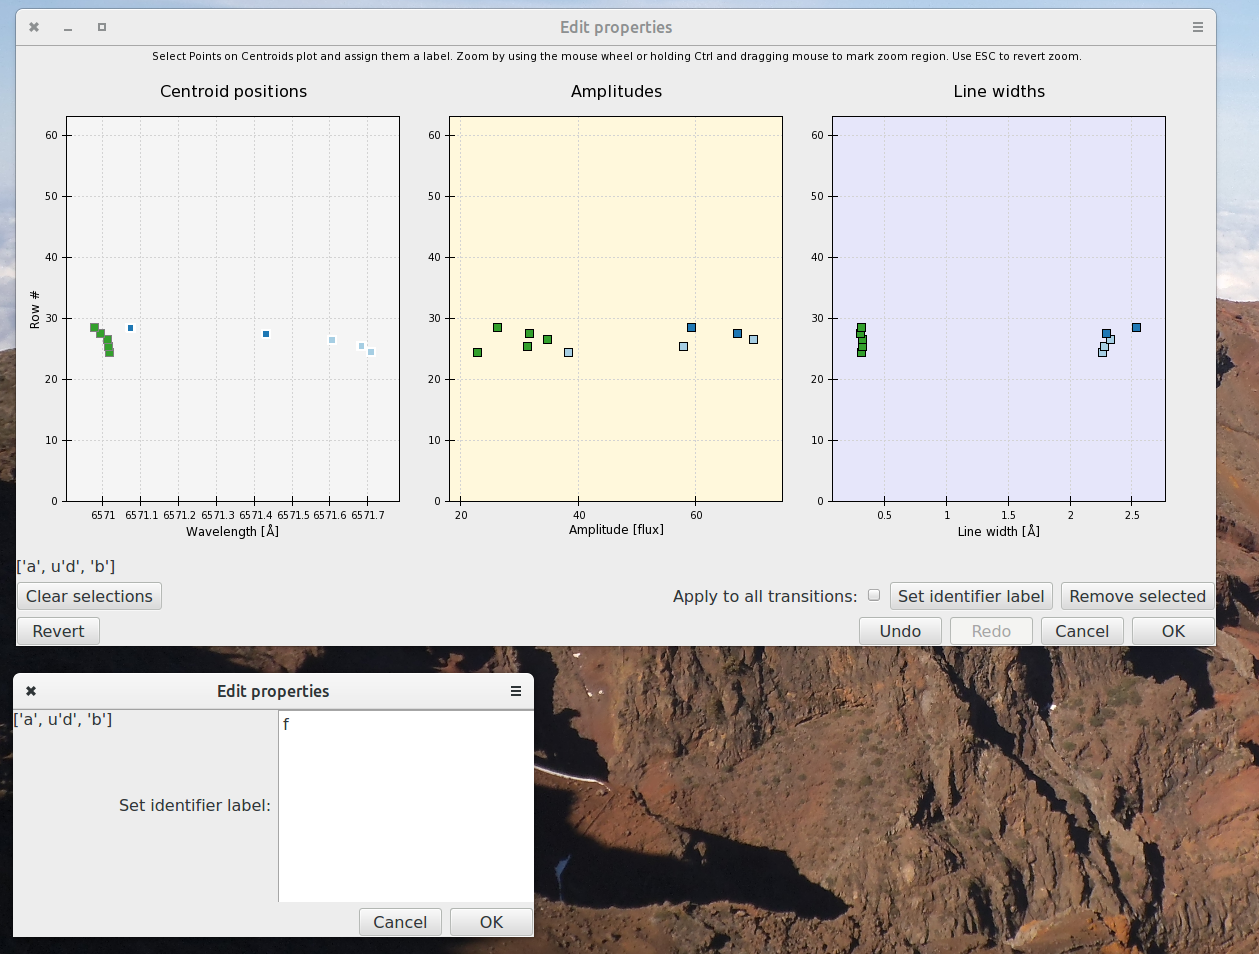
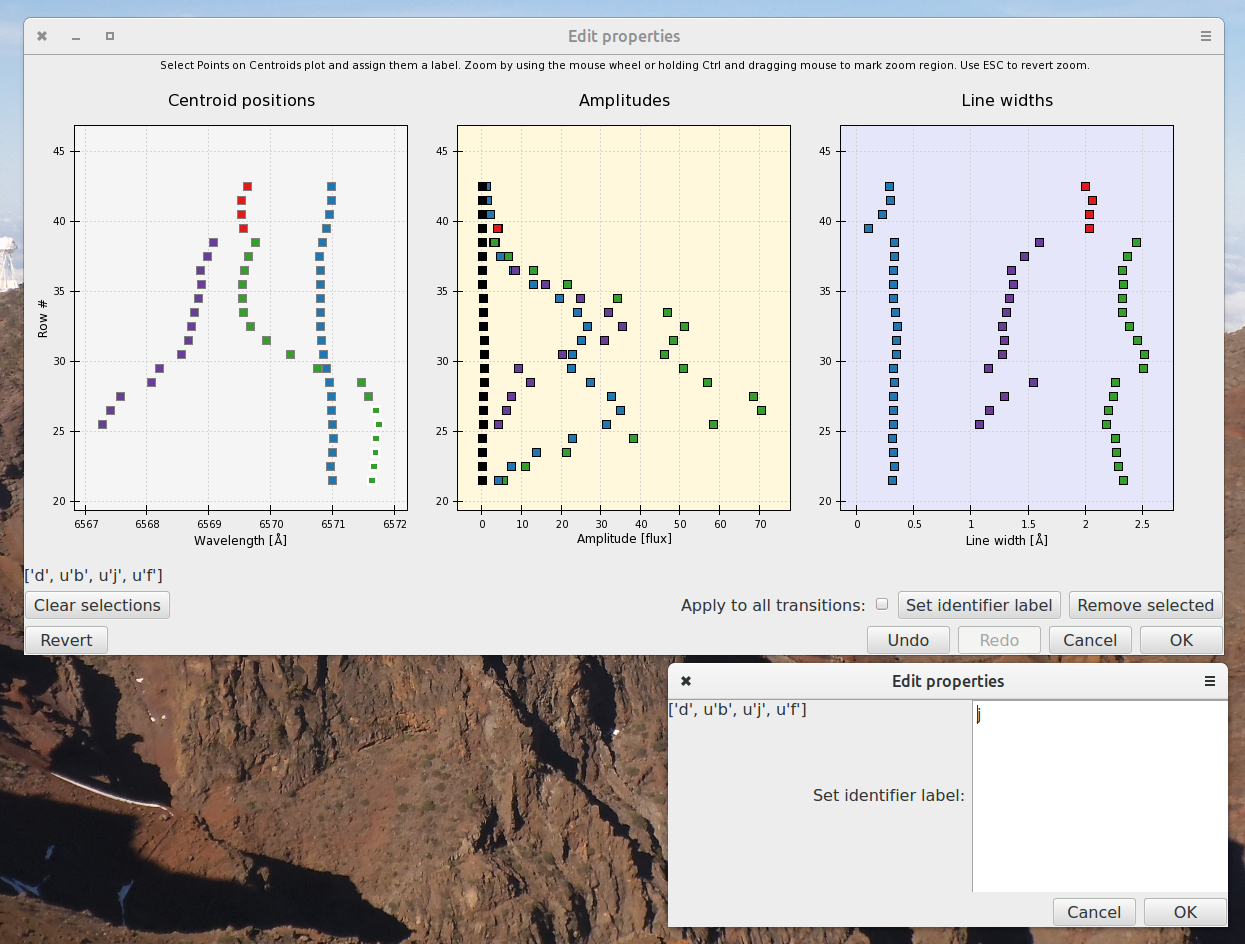
Added model, tweaked code and changed screenshots

diff --git a/pychelle/show2dspec.py b/pychelle/show2dspec.py
@@ -1315,7 +1315,7 @@ class Show2DSpec(HasTraits):
             transits = self.Spectrum.model.index.levels[0].tolist()
         else:
             transits = [self.transition]
-        model = self.model.copy()#\
+        model = self.model.copy()\
             .set_index('Identifier', append=True, drop=False)\
             .reset_index('Component', drop=False)
         the_index = model.loc[self.transition]\
@@ -1327,8 +1327,8 @@ class Show2DSpec(HasTraits):
                 )
         # TODO: I think this is the source for my problems. Why change index
         # here??
-        # self.model = model.set_index('Component', append=True, drop=True)\
-        #     .reset_index('Identifier', drop=True)
+        self.model = model.set_index('Component', append=True, drop=True)\
+            .reset_index('Identifier', drop=True)
         self._build_model_plot()
         self.ContCont.request_redraw()
         self.Posplot.request_redraw()
